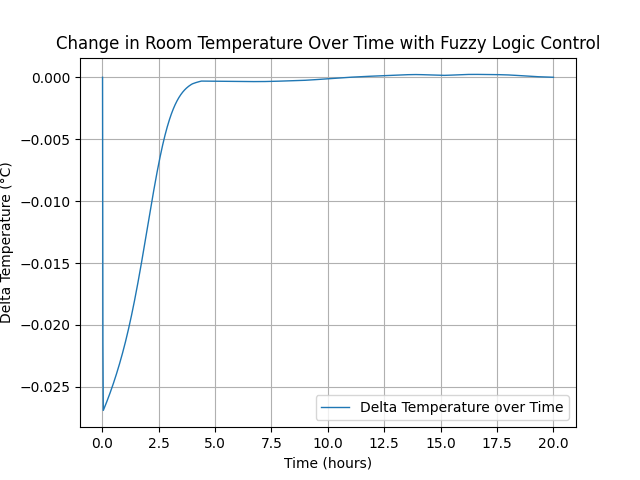
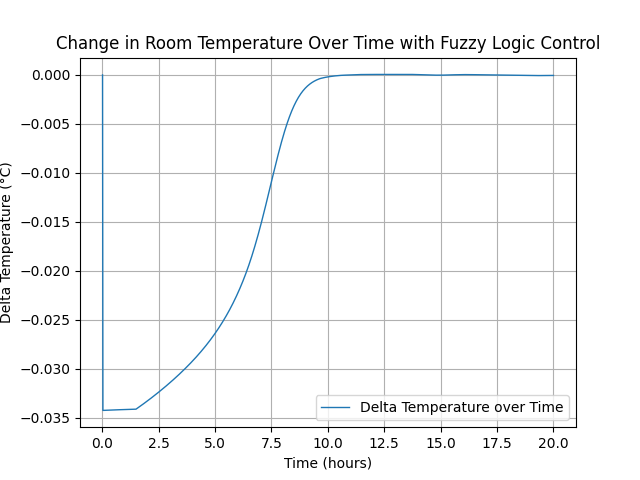
humidity still staying at initial

diff --git a/environment_simulator.py b/environment_simulator.py
@@ -27,9 +27,10 @@ def celsius_to_kelvin(temp_c):
 def kelvin_to_celsius(temp_k):
     return temp_k - 273.15
 
-def calc_new_temp_and_hum(temp, humidity, ac_heater_control, humidifier_control, hour, step_seconds, splines, ac_heater_max_power=1000, humidifier_max_change=2, wall_heat_loss_factor=1):
+def calc_new_temp_and_hum(temp, humidity, ac_heater_control, humidifier_control, hour, step_seconds, splines, ac_heater_max_power=1000, wall_heat_loss_factor=1):
 
-    #ac_heater_max_power = 1000  # in Watts
+    #ac_heater_max_power = 1000  # in Watt
+    humidifier_max_change= 5/3600 # can change by 5% per hour
 
     specific_heat = specific_heat_by_humidity(humidity)  # J/(kg·K)
     
@@ -47,10 +48,11 @@ def calc_new_temp_and_hum(temp, humidity, ac_heater_control, humidifier_control,
 
     sum_power -= heat_loss
 
-    # 5 second step
     temp_change = (sum_power * step_seconds) / (air_mass * specific_heat)  # in Kelvin
 
-    humidity_change =  humidifier_control / 100 * humidifier_max_change  * step_seconds
+    SCALE_HUMIDITY_CHANGE = 1e5
+    humidity_change =  humidifier_control / 100 * humidifier_max_change  * step_seconds * SCALE_HUMIDITY_CHANGE
+    print('humidifier_control:', humidifier_control, 'humidity_change:', humidity_change, 'step_seconds:', step_seconds, 'humidifier_max_change:', humidifier_max_change)
     return {"temperature": temp + temp_change, "humidity": humidity + humidity_change, "outdoor_temperature": outdoor_temp}
 
 #print(f"Step hours: {step_hours}")

diff --git a/firstRun.py b/firstRun.py
@@ -99,5 +99,4 @@ plt.title('Change in Room Temperature Over Time with Fuzzy Logic Control')
 plt.grid()
 plt.legend()
 plt.savefig('results/delta_temperature_over_time.png')
-
 #print( list( map( float, temps) ) )
